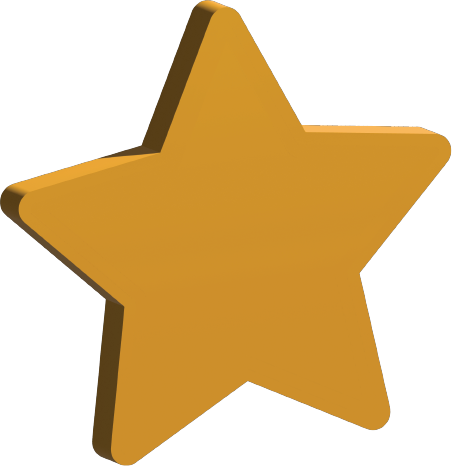
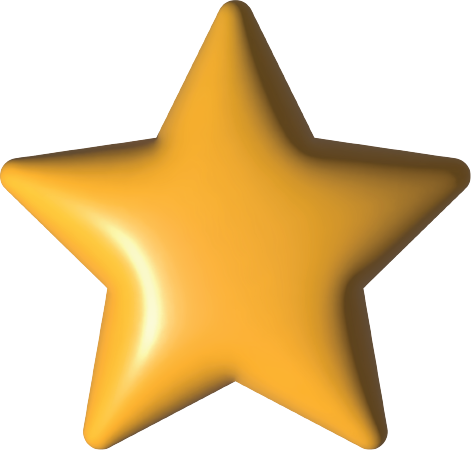
even shinier stars

diff --git a/src/components/rank/rank.scss b/src/components/rank/rank.scss
@@ -7,21 +7,21 @@
         height: 3em;
         width: 3em;
         background-position: center;
-        background-size: cover;
+        background-size: contain;
         background-repeat: no-repeat;
         margin: .1em;
 
     
         &.full {
-            background-image: url("../../assets/images/fullStar3D2.png")
+            background-image: url("../../assets/images/fullStar3D.png")
         }
     
         &.empty {
-            background-image: url("../../assets/images/emptyStar3D2.png")
+            background-image: url("../../assets/images/emptyStar3D.png")
         }
     
         &.half {
-            background-image: url("../../assets/images/halfStar3D2.png")
+            background-image: url("../../assets/images/halfStar3D.png")
         }
 }
 }

diff --git a/src/App.scss b/src/App.scss
@@ -202,7 +202,7 @@ input[type="text"] {
   height: 2em;
   margin: .1em;
   /* Adjust the height as needed */
-  background-image: url('./assets/images/emptyStar3D2.png');
+  background-image: url('./assets/images/emptyStar3D.png');
   /* Replace with the path to your star icon */
   background-size: contain;
   cursor: pointer;
@@ -212,7 +212,7 @@ input[type="text"] {
 
 .star-label.selected,
 .hovered {
-  background-image: url('./assets/images/fullStar3D2.png');
+  background-image: url('./assets/images/fullStar3D.png');
   /* Replace with the path to your star icon */
 }
 
